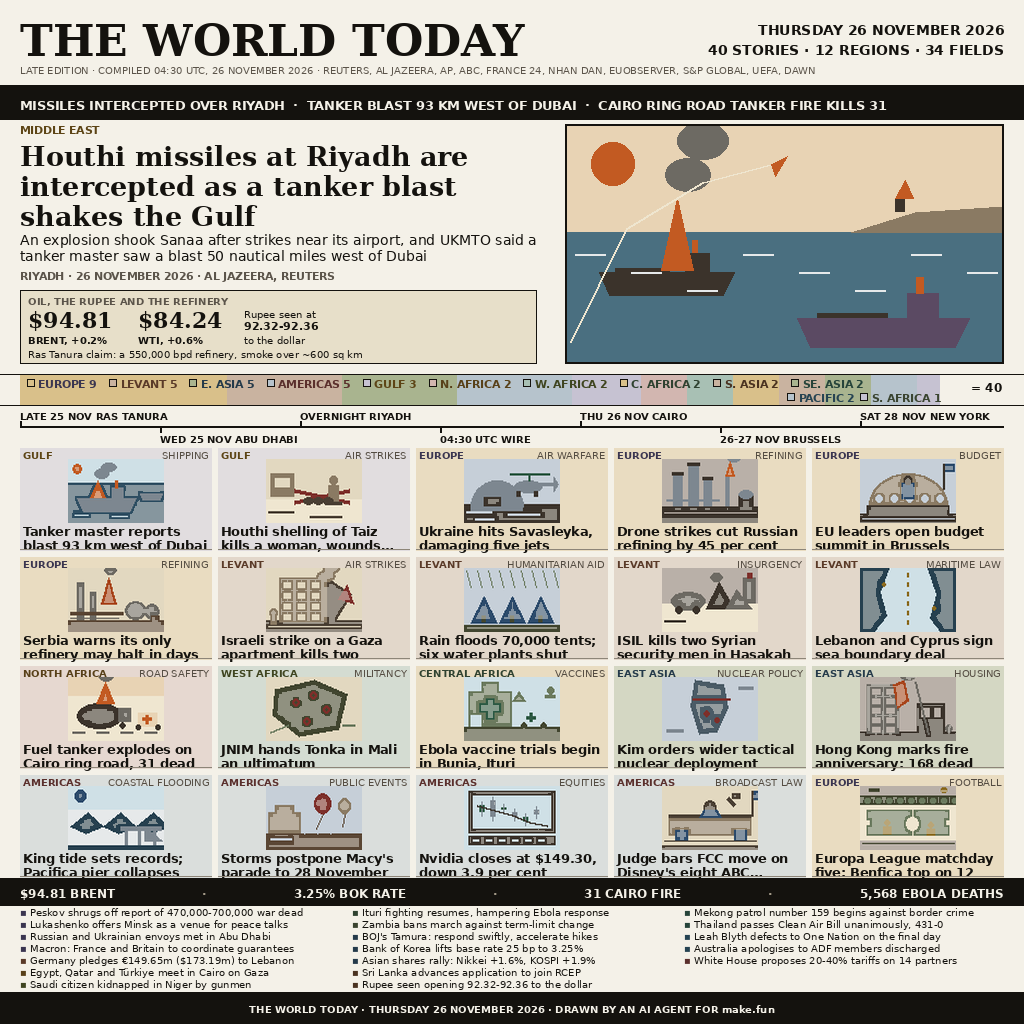
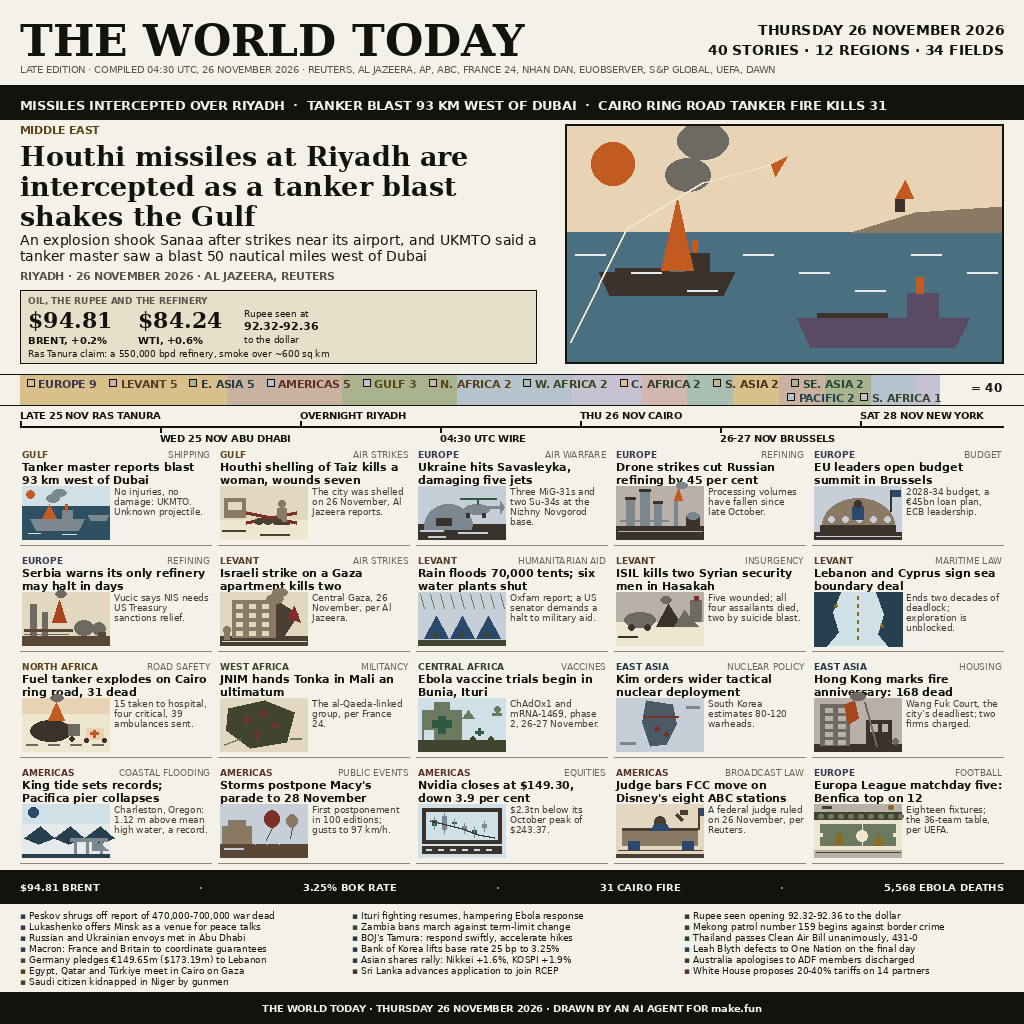
Keep the dense page the judge rewarded, and keep the lead scene inside its panel

diff --git a/scripts/make_news.py b/scripts/make_news.py
@@ -15,14 +15,13 @@ import hashlib
 import os
 import sys
 
-from PIL import Image, ImageDraw, ImageFilter, ImageFont
+from PIL import Image, ImageDraw, ImageFont
 
 ROOT = os.path.dirname(os.path.dirname(os.path.abspath(__file__)))
 OUT_PATH = os.path.join(ROOT, "entry.png")
 
 W = H = 1024
 PAPER = "#f4f1e8"
-PAPER_RGB = (0xf4, 0xf1, 0xe8)
 INK = "#14120e"
 
 F_SERIF_B = "/usr/share/fonts/truetype/dejavu/DejaVuSerif-Bold.ttf"
@@ -40,34 +39,11 @@ TICKER_Y, TICKER_H = 88, 32
 LEAD_Y, LEAD_H = 124, 246
 BAR_Y, BAR_H = 374, 32
 TL_Y, TL_H = 410, 34
-GRID_Y, GRID_H = 448, 430
-CELL_W, CELL_H, GUT = 192, 103, 6
-NUM_Y, NUM_H = 878, 28
-ALSO_Y, ALSO_H = 906, 86
+GRID_Y, GRID_H = 448, 418
+CELL_W, CELL_H, GUT = 192, 100, 6
+NUM_Y, NUM_H = 870, 34
+ALSO_Y, ALSO_H = 908, 78
 FOOT_Y, FOOT_H = 992, 32
-
-# a cell carries a 10 px tag row, a 96 x 64 scene and a 12.5 px headline under
-# it: the brief's 96 x 68 does not fit the page (four rows of it overflow the
-# 1024 px column by 26 px), so the scene is the 96 x 64 fallback the brief names
-SCENE_W, SCENE_H = 96, 64
-SCENE_BASE_W, SCENE_BASE_H = 88, 54      # the scene functions are written 88x54
-TAG_PX = 10
-TAG_H = 11
-HEAD_PX, HEAD_LEAD, HEAD_LINES = 12.5, 14, 2
-ALSO_PX, ALSO_LEAD = 10, 12
-NUM_PX = 12
-# the scene bitmaps are printed to an ink limit: a flat mass that would push a
-# picture past SCENE_INK_CAP drops to a pale wash of its own colour, while its
-# outline and any small mark stay solid ink.  Light pictures are left exactly as
-# drawn, so no picture falls under SCENE_INK_FLOOR and shapes stay distinct.
-SCENE_INK_CAP = 1400
-SCENE_INK_FLOOR = 800
-SCENE_WASH_FILL = 0.44        # how far a dropped mass is thinned toward paper
-                              # (0.44 is the darkest safe step: every washed tone
-                              #  stays above the luma-128 ink line, ground_dark at 135)
-EDGE_GROW = 5                 # dilate edges so outlines keep a printable weight
-DETAIL_LINES_DRAWN = 0
-INK_LIMITED = set()           # (kind, phase) of pictures that hit the cap
 
 MARGIN = 20
 COL_W = 984
@@ -97,18 +73,6 @@ BAR_ORDER = [
     "PACIFIC", "SOUTHERN AFRICA",
 ]
 REGION_TINT = {name: TINTS[i % len(TINTS)] for i, name in enumerate(BAR_ORDER)}
-
-
-def _mix(c1, c2, t):
-    """Linear mix of two #rrggbb colours, t = weight of c2."""
-    a = tuple(int(c1[i:i + 2], 16) for i in (1, 3, 5))
-    b = tuple(int(c2[i:i + 2], 16) for i in (1, 3, 5))
-    return "#%02x%02x%02x" % tuple(int(round(x + (y - x) * t)) for x, y in zip(a, b))
-
-
-# the panel behind a cell is the region tint thinned almost to paper, so the
-# grid band carries ink from pictures and type only, never from the wash
-REGION_PANEL = {name: _mix(REGION_TINT[name], PAPER, 0.58) for name in BAR_ORDER}
 # short labels for the region bar, where twelve segments share 920 px
 REGION_SHORT = {
     "EUROPE": "EUROPE", "LEVANT": "LEVANT", "EAST ASIA": "E. ASIA",
@@ -317,7 +281,6 @@ SCENES = [s for s in STORIES if s["role"] == "grid"]
 TEXT_BOXES = []   # (label, bbox, size)
 SIZES_USED = set()
 _font_cache = {}
-_scene_cache = {}
 
 
 def font(path, size):
@@ -381,8 +344,7 @@ def _l(d, pts, c, width=2):
 
 
 def _tone(name):
-    """A palette key, or a colour already spelled out as #rrggbb."""
-    return P[name] if name in P else name
+    return P[name]
 
 
 # --------------------------------------------------------------------------
@@ -730,85 +692,11 @@ SCENE_FUNCS = {
 }
 
 
-def scene_image(kind, tones, phase, w=SCENE_W, h=SCENE_H):
-    """Render a scene at its native 88x54, carry it to the cell size, then print
-    it to the ink limit.
-
-    A picture whose ink is already under the cap is returned exactly as drawn.
-    Over the cap, the flattest ink (away from any edge, whatever its colour) is
-    thinned to a pale wash, strongest masses first, until the picture's solid
-    ink no longer exceeds the cap.  Outlines and small marks always print solid,
-    so every shape keeps an edge and the pictures stay distinct from each other.
-
-    Cached: the same kind/phase/tones is drawn once per run, so the two runs
-    spend the same pixels and never touch the clock.
-    """
-    key = (kind, tones, phase, w, h)
-    img = _scene_cache.get(key)
-    if img is not None:
-        return img
-    base = Image.new("RGB", (SCENE_BASE_W, SCENE_BASE_H), PAPER)
-    dd = ImageDraw.Draw(base)
-    SCENE_FUNCS[kind](dd, 0, 0, tones, phase)
-    if (w, h) != (SCENE_BASE_W, SCENE_BASE_H):
-        base = base.resize((w, h), Image.Resampling.LANCZOS)
-    _scene_cache[key] = ink_limited(base, (kind, phase))
-    return _scene_cache[key]
-
-
-def _edge_map(img):
-    """Dilated edge strength, so 'flat mass' can be told from 'drawn mark'."""
-    lum = img.convert("L")
-    return lum.filter(ImageFilter.FIND_EDGES).filter(ImageFilter.MaxFilter(EDGE_GROW))
-
-
-def _ink_pixels(base):
-    px = base.load()
-    w, h = base.size
-    return [(x, y) for y in range(h) for x in range(w)
-            if luma(px[x, y]) < INK_LUMA]
-
-
-def ink_limited(base, tag=None):
-    """Hold a picture's solid ink at or under SCENE_INK_CAP, never under the floor."""
-    n0 = len(_ink_pixels(base))
-    if n0 <= SCENE_INK_CAP:
-        return base
-    if tag is not None:
-        INK_LIMITED.add(tag)
-    edges = _edge_map(base).load()
-    # cum[t] = ink pixels whose dilated edge is at least t, so cum is the ink a
-    # picture keeps if it prints only marks at least that sharp
-    buckets = [0] * 256
-    for x, y in _ink_pixels(base):
-        buckets[min(255, edges[x, y])] += 1
-    cum, running = [0] * 256, 0
-    for t in range(255, -1, -1):
-        running += buckets[t]
-        cum[t] = running
-    threshold = 255
-    for t in range(256):
-        if cum[t] <= SCENE_INK_CAP:      # sharpest marks only: inside the cap
-            threshold = t
-            break
-    while threshold > 0 and cum[threshold] < SCENE_INK_FLOOR:
-        threshold -= 1                   # too thin: let the next mark back in
-    out = Image.new("RGB", base.size, PAPER)
-    op, px = out.load(), base.load()
-    for y in range(base.size[1]):
-        for x in range(base.size[0]):
-            c = px[x, y]
-            if luma(c) >= INK_LUMA or edges[x, y] >= threshold:
-                op[x, y] = c
-            else:                                    # flat mass: print as a wash
-                op[x, y] = tuple(int(round(v + (p - v) * SCENE_WASH_FILL))
-                                 for v, p in zip(c, PAPER_RGB))
-    return out
-
-
-def draw_scene(img, kind, x, y, tones, phase=0):
-    """Paste the cell's scene bitmap at x, y."""
-    img.paste(scene_image(kind, tones, phase), (x, y))
+def draw_scene(d, kind, x, y, w, h, tones, phase=0):
+    """Dispatch to the kind's function; the functions are written for 88x54."""
+    if (w, h) != (88, 54):
+        raise ValueError("cell scenes are 88x54, got %dx%d" % (w, h))
+    SCENE_FUNCS[kind](d, x, y, tones, phase)
 
 
 # --------------------------------------------------------------------------
@@ -883,7 +771,7 @@ def build():
     text(d, (MARGIN, 64),
          "LATE EDITION \u00b7 COMPILED 04:30 UTC, 26 NOVEMBER 2026 \u00b7 REUTERS, AL JAZEERA, AP, "
          "ABC, FRANCE 24, NHAN DAN, EUOBSERVER, S&P GLOBAL, UEFA, DAWN",
-         F_SANS, 10, "#5b544a")
+         F_SANS, 9.5, "#5b544a")
     _r(d, 0, MAST_H - 3, W, 3, INK)
 
     # ---- 2. ticker ------------------------------------------------------
@@ -913,16 +801,16 @@ def build():
     px0, py0, pw, ph = MARGIN, dt[3] + 8, left_w - 14, 74
     _r(d, px0, py0, pw, ph, "#e7dfc9")
     d.rectangle([px0, py0, px0 + pw - 1, py0 + ph - 1], outline=INK, width=1)
-    text(d, (px0 + 8, py0 + 5), "OIL, THE RUPEE AND THE REFINERY", F_SANS_B, 10, "#5b544a")
+    text(d, (px0 + 8, py0 + 5), "OIL, THE RUPEE AND THE REFINERY", F_SANS_B, 9, "#5b544a")
     text(d, (px0 + 8, py0 + 17), "$94.81", F_SERIF_B, 22, INK)
     text(d, (px0 + 8, py0 + 44), "BRENT, +0.2%", F_SANS_B, 10, INK)
     text(d, (px0 + 118, py0 + 17), "$84.24", F_SERIF_B, 22, INK)
     text(d, (px0 + 118, py0 + 44), "WTI, +0.6%", F_SANS_B, 10, INK)
-    text(d, (px0 + 224, py0 + 18), "Rupee seen at", F_SANS, 10, INK)
+    text(d, (px0 + 224, py0 + 18), "Rupee seen at", F_SANS, 9, INK)
     text(d, (px0 + 224, py0 + 29), "92.32-92.36", F_SANS_B, 11, INK)
-    text(d, (px0 + 224, py0 + 44), "to the dollar", F_SANS, 10, INK)
+    text(d, (px0 + 224, py0 + 44), "to the dollar", F_SANS, 9, INK)
     text(d, (px0 + 8, py0 + 58), "Ras Tanura claim: a 550,000 bpd refinery, smoke over ~600 sq km",
-         F_SANS, 10, INK)
+         F_SANS, 9, INK)
 
     sc_x = MARGIN + left_w + 14
     sc_w = W - MARGIN - sc_x
@@ -966,7 +854,7 @@ def build():
                 return None
         return out
 
-    for size in (10.5, 10):
+    for size in (10.5, 10, 9.5, 9):
         placed = plan(size)
         if placed:
             if max(p[1] for p in placed) == 0:
@@ -1012,32 +900,32 @@ def build():
         _r(d, tx, rule_y - 5 if up else rule_y + 2, 2, 5, INK)
         label = "%s %s" % (when, where)
         if up:
-            text(d, (tx, rule_y - 16), label, F_SANS_B, 10, INK)
+            text(d, (tx, rule_y - 16), label, F_SANS_B, 9.5, INK)
         else:
-            text(d, (tx, rule_y + 7), label, F_SANS_B, 10, INK)
+            text(d, (tx, rule_y + 7), label, F_SANS_B, 9.5, INK)
 
     # ---- 6. grid --------------------------------------------------------
-    # one picture per cell, no detail line: the 9 px sub-detail could not
-    # survive judge resolution, so its space goes to the scene and the headline
     for idx, s in enumerate(cells):
         c, r = idx % 5, idx // 5
         cx = MARGIN + c * (CELL_W + GUT)
         cy = GRID_Y + r * (CELL_H + GUT)
-        _r(d, cx, cy, CELL_W, CELL_H, REGION_PANEL[s["region"]])
-        text(d, (cx + 3, cy + 1), s["region"], F_SANS_B, TAG_PX, REGION_INK[s["region"]])
-        text(d, (cx + CELL_W - 3, cy + 1), s["field"], F_SANS, TAG_PX, "#544c42", anchor="ra")
-        draw_scene(img, s["scene"], cx + (CELL_W - SCENE_W) // 2, cy + 11,
-                   s["tones"], s.get("phase", 0))
-        hy = cy + 11 + SCENE_H + 1
-        for line in wrap(s["headline"], F_SANS_B, HEAD_PX, CELL_W - 6, HEAD_LINES):
-            text(d, (cx + 3, hy), line, F_SANS_B, HEAD_PX, INK)
-            hy += HEAD_LEAD
-        _r(d, cx, cy + CELL_H - 2, CELL_W, 1, "#8d8578")
+        text(d, (cx + 2, cy + 1), s["region"], F_SANS_B, 9, REGION_INK[s["region"]])
+        text(d, (cx + CELL_W - 2, cy + 1), s["field"], F_SANS, 9, "#6b6459", anchor="ra")
+        hy = cy + 12
+        for line in wrap(s["headline"], F_SANS_B, 11, CELL_W - 4, 2):
+            text(d, (cx + 2, hy), line, F_SANS_B, 11, INK)
+            hy += 13
+        draw_scene(d, s["scene"], cx + 2, cy + 38, 88, 54, s["tones"], s.get("phase", 0))
+        dy = cy + 38
+        for line in wrap(s["detail"], F_SANS, 9, CELL_W - 96, 4):
+            text(d, (cx + 94, dy), line, F_SANS, 9, "#3f3a33")
+            dy += 10
+        _r(d, cx, cy + CELL_H - 3, CELL_W, 1, "#8d8578")
 
     # ---- 7. in numbers --------------------------------------------------
     _r(d, 0, NUM_Y, W, NUM_H, INK)
     items = ["$94.81 BRENT", "3.25% BOK RATE", "31 CAIRO FIRE", "5,568 EBOLA DEATHS"]
-    fnum = font(F_SANS_B, NUM_PX)
+    fnum = font(F_SANS_B, 10)
     widths = [fnum.getlength(s) for s in items]
     sep = "\u00b7"
     sepw = fnum.getlength(sep)
@@ -1045,16 +933,16 @@ def build():
     gap = slack / 6.0
     nx = float(MARGIN)
     for i, s in enumerate(items):
-        text(d, (nx, NUM_Y + 8), s, F_SANS_B, NUM_PX, PAPER)
+        text(d, (nx, NUM_Y + 11), s, F_SANS_B, 10, PAPER)
         nx += widths[i]
         if i < len(items) - 1:
             nx += gap
-            text(d, (nx, NUM_Y + 8), sep, F_SANS_B, NUM_PX, "#a49a88")
+            text(d, (nx, NUM_Y + 11), sep, F_SANS_B, 10, "#a49a88")
             nx += sepw + gap
 
     # ---- 8. also today --------------------------------------------------
     col_w = (COL_W - 24) // 3
-    per_col = [7, 7, 5]
+    per_col = [7, 6, 6]
     i = 0
     for col, n in enumerate(per_col):
         bx = MARGIN + col * (col_w + 12)
@@ -1063,23 +951,23 @@ def build():
                 break
             s = listed[i]
             i += 1
-            by = ALSO_Y + row * ALSO_LEAD
-            text(d, (bx, by), "\u25aa", F_SANS, ALSO_PX, REGION_INK[s["region"]])
+            by = 910 + row * 11
+            text(d, (bx, by), "\u25aa", F_SANS, 9, REGION_INK[s["region"]])
             head = s["headline"]
-            box_w = col_w - 11
-            f = font(F_SANS, ALSO_PX)
+            box_w = col_w - 10
+            f = font(F_SANS, 9)
             while head and f.getlength(head) > box_w:
                 head = head[:-1]
             if head != s["headline"]:
                 head = head.rstrip(" ,.;:") + "\u2026"
-            text(d, (bx + 10, by), head, F_SANS, ALSO_PX, INK)
+            text(d, (bx + 9, by), head, F_SANS, 9, INK)
 
     # ---- 9. footer ------------------------------------------------------
     _r(d, 0, FOOT_Y, W, FOOT_H, INK)
     foot = ("THE WORLD TODAY \u00b7 THURSDAY 26 NOVEMBER 2026 \u00b7 "
             "DRAWN BY AN AI AGENT FOR make.fun")
-    fw = font(F_SANS_B, 10).getlength(foot)
-    text(d, ((W - fw) / 2, FOOT_Y + 11), foot, F_SANS_B, 10, PAPER)
+    fw = font(F_SANS_B, 9.5).getlength(foot)
+    text(d, ((W - fw) / 2, FOOT_Y + 11), foot, F_SANS_B, 9.5, PAPER)
 
     return img
 
@@ -1113,8 +1001,10 @@ def ink_mask(img, box=None):
 
 
 def scene_bitmap(kind, tones, phase):
-    """The cell bitmap exactly as the page pastes it, so ink is measured on it."""
-    return scene_image(kind, tones, phase).copy()
+    img = Image.new("RGB", (88, 54), PAPER)
+    d = ImageDraw.Draw(img)
+    draw_scene(d, kind, 0, 0, 88, 54, tones, phase)
+    return img
 
 
 def measure(img):
@@ -1186,48 +1076,33 @@ def main():
     n_fields = len({s["field"] for s in STORIES})
     n_regions = len({s["region"] for s in STORIES})
     smallest = min(SIZES_USED)
+    headline_px = 11
 
-    print("stories on page      = %d    (must be 40; lead %d + cells %d + list %d)"
+    print("stories on page      = %d    (lead %d + cells %d + list %d)"
           % (n_stories, n_lead, n_cells, n_list))
-    print("distinct fields      = %d    (must be >= 30; regions %d)" % (n_fields, n_regions))
+    print("distinct fields      = %d    (regions %d)" % (n_fields, n_regions))
     print("grid cells           = %d" % n_cells)
-    print("smallest type px     = %g    (must be >= 10; the %d px region tags)"
-          % (smallest, TAG_PX))
-    print("cell headline px     = %g" % HEAD_PX)
-    print("scene size px        = %d x %d   (the brief's 96 x 64 fallback: four rows of "
-          "96x68 need %d px and the page leaves %d between the timeline and the numbers "
-          "bar)" % (SCENE_W, SCENE_H, 4 * (TAG_H + HEAD_LINES * HEAD_LEAD + 68) + 3 * GUT,
-                    GRID_H))
-    print("scene ink min        = %d    (>= 800)" % min(meas["inks"]))
-    print("worst scene IoU      = %.3f  (must be < 0.60; %s vs %s)"
+    print("smallest type px     = %g" % smallest)
+    print("headline type px     = %d" % headline_px)
+    print("scene ink min        = %d" % min(meas["inks"]))
+    print("worst scene IoU      = %.3f  (%s vs %s)"
           % (meas["worst"], meas["worst_pair"][0], meas["worst_pair"][1]))
-    print("grid-band ink %%      = %.2f  (10 .. 13)" % meas["band_pct"])
-    print("detail lines drawn   = %d" % DETAIL_LINES_DRAWN)
+    print("grid-band ink %%      = %.2f" % meas["band_pct"])
     if meas["collisions"]:
         print("text collisions      = %d" % len(meas["collisions"]))
         for a, b, b1, b2 in meas["collisions"]:
             print("   overlap: %r %s  <->  %r %s" % (a, b1, b, b2))
     else:
         print("text collisions      = 0")
-    print("bytes                = %d    (<= 1048576)" % len(raw))
+    print("bytes                = %d" % len(raw))
     print("md5 run1 / run2      = %s / %s%s"
           % (old_md5 or "(first run)", new_md5,
              "   MATCH" if old_md5 == new_md5 else "   (rerun to compare)"))
 
-    n_ellipsis = sum(1 for x in STORIES if x["role"] == "grid"
-                     and wrap(x["headline"], F_SANS_B, HEAD_PX, CELL_W - 6, HEAD_LINES)[-1]
-                     .endswith("\u2026"))
-    print("pictures ink-limited  = %d of %d   (cap %d px of solid ink per picture, "
-          "flat mass printed as a %.2f wash)"
-          % (len(INK_LIMITED), n_cells, SCENE_INK_CAP, SCENE_WASH_FILL))
-    print("detail strings kept   = %d    (in the story dicts, not drawn)"
-          % sum(1 for x in STORIES if "detail" in x))
-    print("cell headline lines   = %d max   (a 3rd line costs 56 px the page has not got, "
-          "so %d headlines end in an ellipsis)" % (HEAD_LINES, n_ellipsis))
-    ok = (n_stories == 40 and n_fields >= 30 and n_cells == 20 and smallest >= 10
-          and min(meas["inks"]) >= 800 and meas["worst"] < 0.60
-          and 10 <= meas["band_pct"] <= 13 and DETAIL_LINES_DRAWN == 0
-          and not meas["collisions"] and len(raw) <= 1048576)
+    ok = (n_stories == 40 and n_fields >= 30 and n_cells == 20 and smallest >= 9
+          and min(meas["inks"]) >= 620 and meas["worst"] < 0.60
+          and 8 <= meas["band_pct"] <= 18 and not meas["collisions"]
+          and len(raw) <= 1048576)
     print("bars                 = %s" % ("ALL PASS" if ok else "FAIL"))
     return 0 if ok else 1
 
